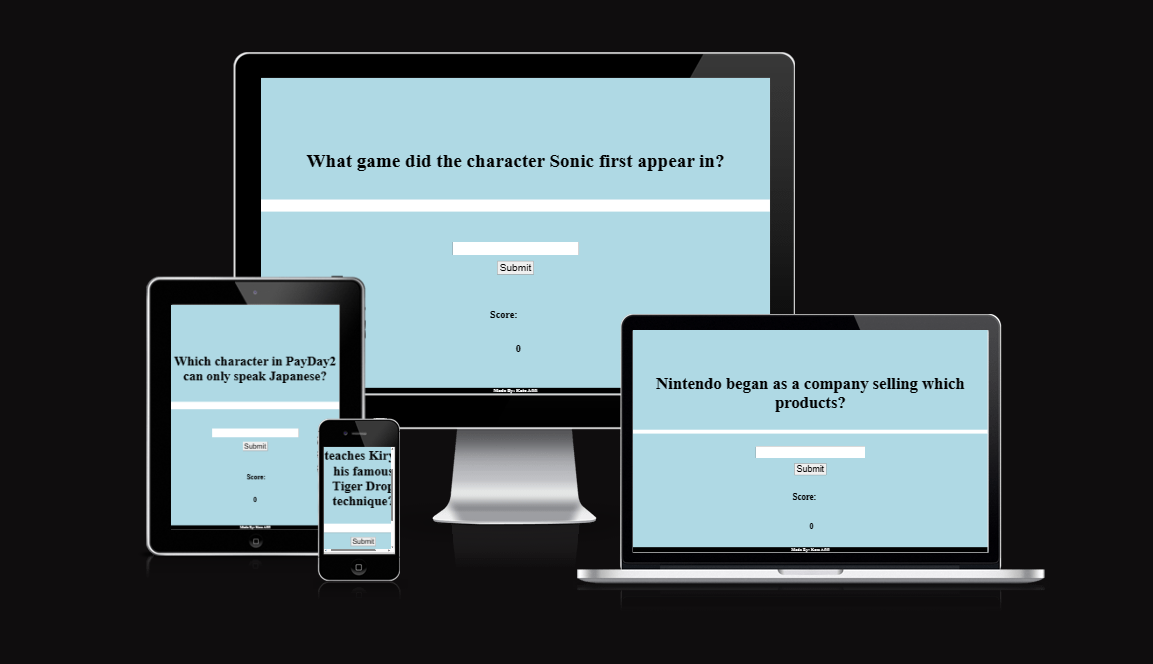
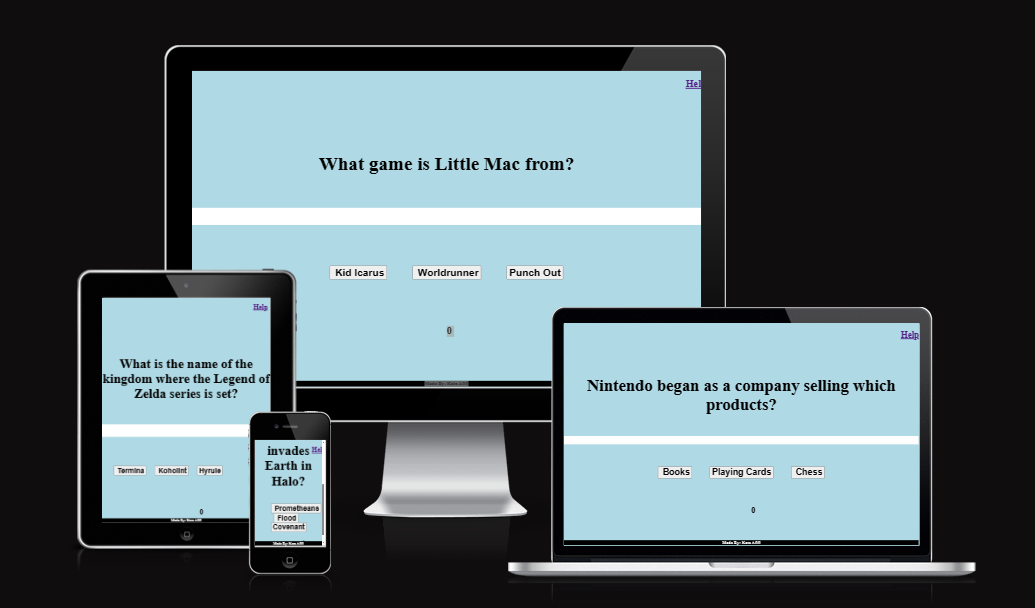
add more detail in readme and new images

Changed region(s): [[0.0618, 0.0625, 0.9585, 0.9688]]

diff --git a/README.md b/README.md
@@ -1,33 +1,33 @@
 # Video Game Quiz
 
-This is a site where you get to test your expansive video game knowledge. You're able to try and guess from a bunch of questions which I've set up beforehand, do you think you can score 10 and win? 
+This is a site where you get to test your expansive video game knowledge. You're able to try and guess from a bunch of questions which I've set up beforehand. If you score 0 or get 20 wrong then you lose but if you get 10 right then you win, up for the challange?
 
-Video Game Quiz is a game completely made in Javascript. 
+Video Game Quiz is a game completely made in Javascript.
 
 ![Responsice Mockup](assets/images/showup.png)
 
-## Features 
+## Features
+
 ### Existing Features
 
 - __The Question Area__
 
-  - Featured at the top of the page, the question area is meant to display a random question which the user can partake in problem solving.
+  - At the top of the page, the question area displays a random question from the game's database. The question is presented with 3 possible answers, each represented by a button. The question area is designed to be visually appealing and easy to read, with clear and concise wording that is easy to understand.
 
 ![Question section](assets/images/headingquestion.png/)
 
 - __The Game Area__
 
   - This section will allow the user to enter what they believe the answer to be.
-  - The user will be able to type and press enter to validate their question. 
-   - The question section is where the user will be able to see the question to answer as part of the game. The user will be able answer the questions in the answer box provide.
-  - The user will be able to submit their answer and a pop-up will make it known to the user if they answered correctly. 
+  - The user will be able to type and press enter to validate their question.
+  - The question section is where the user will be able to see the question to answer as part of the game. The user will be able answer the questions in the answer box provide.
+  - The user will be able to submit their answer and a pop-up will make it known to the user if they answered correctly.
 
 ![Game](assets/images/formarea.png)
 
 - __Feedback Area__
 
-  - In this area the user will see a set of checkmarks or cross marks depending on their performance in the game. 
-  - It's helpful for the user to see their performance and keep track of how many was right and how many was wrong. 
+After you submit your answer, the feedback area displays whether your answer was correct or incorrect. If you answered correctly, a green checkmark is displayed. If you answered incorrectly, a red X is displayed. The feedback area is designed to be informative and helpful, providing you with immediate feedback on your performance in the game.
 
 ![Empty image area](assets/images/imagefeedback.png)
 
@@ -35,45 +35,48 @@ Video Game Quiz is a game completely made in Javascript.
 
 - __The Score Area__
 
-  - This section will allow the user to see exactly how many correct and incorrect answers they have provided. 
+The score area displays your current score, as well as the total number of questions answered and the number of questions answered correctly. The score area is designed to be easy to read and understand, with clear and concise information that helps you keep track of your progress in the game.
 
 ![score](assets/images/scorearea.png)
 
 - __Footer__
+The footer displays the creator's name and a link to their website. The footer is designed to be unobtrusive and informative, providing you with additional information about the game's creator if you're interested in learning more.
+---
+- __Help Site__
+An extra page that will help you understand the game better. It will tell you how to play the game and what the game is about. It will also tell you how to win and lose the game. 
+![help](assets/images/help.png)
 
-  - A footer that displays the creator's name. 
-  - Useful if they're interested in looking finding out more about them in the future.
+## Testing
 
-## Testing 
+- I've tested that the game works.
+- I've tested that the game has a win and lose condition.
+- I've tested so that the code in the Javascript works as expected, even on GitHub Pages.
 
-- I've tested that the game works. 
-- I've tested that the game has a win and lose condition. 
-- I've tested so that the code in the Javascript works as expected, even on GitHub Pages. 
-
-- I've checked that the site looks okay on different screen sizes. 
+- I've checked that the site looks okay on different screen sizes.
 
 - I've made sure it scored high in lighthouse.
+
 ![lighthouse](assets/images/light.png)
 
-## Bugs 
+## Bugs
 
 - The score counter awkwardly slides underneath the score text on other screen sizes.
 
-
-### Validator Testing 
+### Validator Testing
 
 - HTML
-    - No errors were returned when passing through the official [W3C validator.](https://validator.w3.org/nu/?doc=https://kate-karui.github.io/JavaScript-Project/) ![HTML validator with no issue](assets/images/htmlcheck.png)
+  - No errors were returned when passing through the official [W3C validator.](https://validator.w3.org/nu/?doc=https://kate-karui.github.io/JavaScript-Project/) ![HTML validator with no issue](assets/images/htmlcheck.png)
 - CSS
-    - No errors were found when passing through the official [(Jigsaw) validator.](https://jigsaw.w3.org/css-validator/validator?uri=https%3A%2F%2Fkate-karui.github.io%2FJavaScript-Project%2F&profile=css3svg&usermedium=all&warning=1&vextwarning=&lang=en) ![CSS validation with no issue](assets/images/csscheck.png)
+  - No errors were found when passing through the official [(Jigsaw) validator.](https://jigsaw.w3.org/css-validator/validator?uri=https%3A%2F%2Fkate-karui.github.io%2FJavaScript-Project%2F&profile=css3svg&usermedium=all&warning=1&vextwarning=&lang=en) ![CSS validation with no issue](assets/images/csscheck.png)
 - JavaScript
-    - No errors were found when passing through the official [Jshint validator.](https://jshint.com/) ![Jshint validation without any errors](assets/images/scriptcheck.png)
-    <br>
-    <br>
-- The following metrics were returned: 
-    - There are 6 functions in this file.
+  - No errors were found when passing through the official [Jshint validator.](https://jshint.com/)
 
-    - Function with the largest signature take 2 arguments, while the median is 0.
+ ![Jshint validation without any errors](assets/images/scriptcheck.png)
+
+- The following metrics were returned:
+  - There are 6 functions in this file.
+
+  - Function with the largest signature take 2 arguments, while the median is 0.
 
     - Largest function has 19 statements in it, while the median is 5.
 
@@ -82,30 +85,34 @@ Video Game Quiz is a game completely made in Javascript.
 ### Unfixed Bugs
 
 - The score counter awkwardly slides underneath the score text on other screen sizes.
-    - Difficutlies making both the paragraphs move as one.
+  - Difficutlies making both the paragraphs move as one.
 
 ## Deployment
 
-
-- The site was deployed to GitHub pages. The steps to deploy are as follows: 
+- The site was deployed to GitHub pages. The steps to deploy are as follows:
   - In the GitHub repository, navigate to the Settings tab.
   - From the source section drop-down menu, select the Master Branch.
-  - Once the master branch has been selected, the page will be automatically refreshed with a detailed ribbon display to indicate the successful deployment. 
+  - Once the master branch has been selected, the page will be automatically refreshed with a detailed ribbon display to indicate the successful deployment.
 
 The live link can be found [here.](https://kate-karui.github.io/Video-Game-Quiz/)
 
+## Wireframe
 
-- ## Credits 
+![indexwireframe](assets/images/indexwire.png)
+![helpwireframe](assets/images/helpwire.png)
 
+- ## Credits
 
-    - ### Content 
+- ### Content
 
-        - Javascript guidance taken from Bing AI.
+  - Javascript guidance taken from Bing AI.
 
-    - ### Media
+- ### Media
 
-        - Checkmark taken from [clipartbest.com](http://www.clipartbest.com/clipart-dT85e6aqc)
-        - Cross mark taken from [clker.com](https://clipartcraft.com/download.html)
-        - Controller favicon taken from [gamingcypher](https://gamingcypher.com/xbox-one-the-new-generation-xbox-controller-detailed/)
+  - Checkmark taken from [clipartbest.com](http://www.clipartbest.com/clipart-dT85e6aqc)
+  - Cross mark taken from [clker.com](https://clipartcraft.com/download.html)
+  - Controller favicon taken from [gamingcypher](https://gamingcypher.com/xbox-one-the-new-generation-xbox-controller-detailed/)
 
+## Conclusion
 
+- Video Game Quiz is a fun and challenging game that tests your knowledge of video games. With its intuitive interface, informative feedback, and easy-to-understand instructions, it's the perfect game for anyone who loves video games and wants to test their knowledge. So why not give it a try today and see how well you do?
